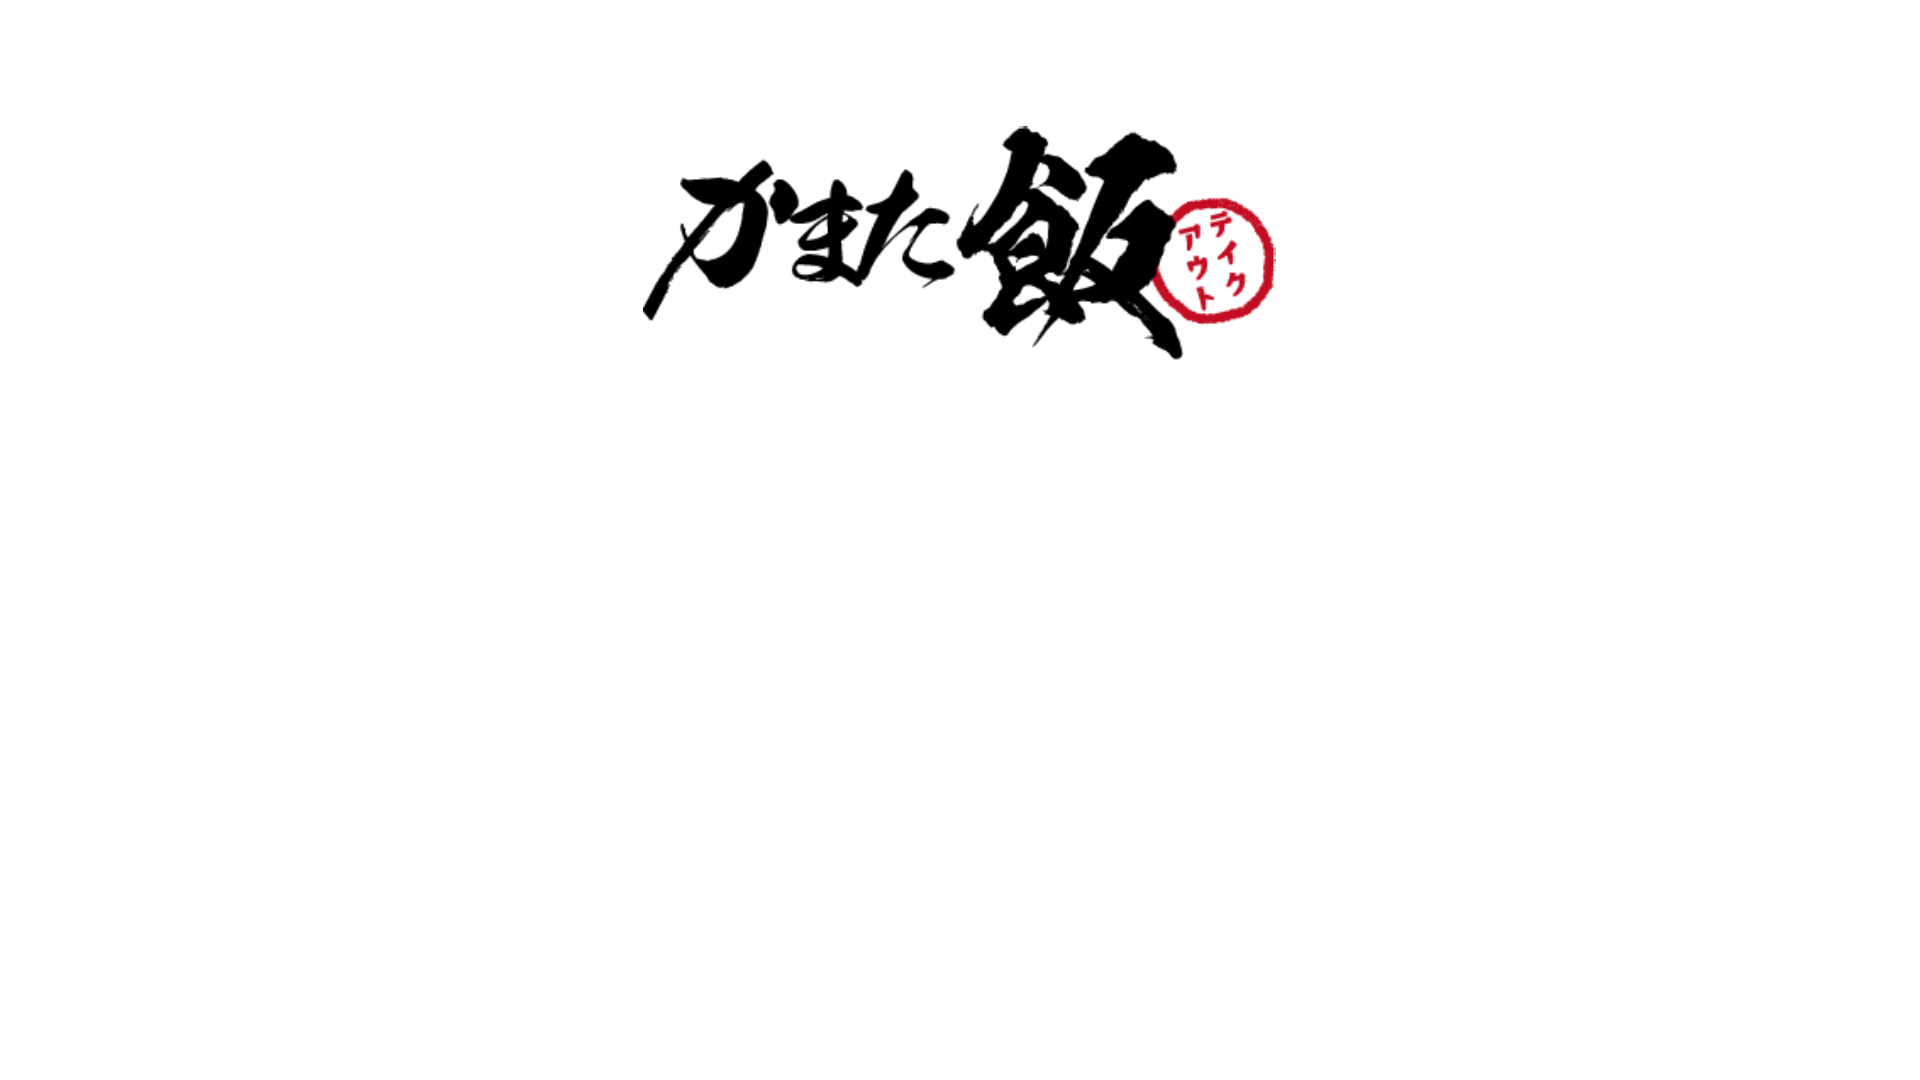
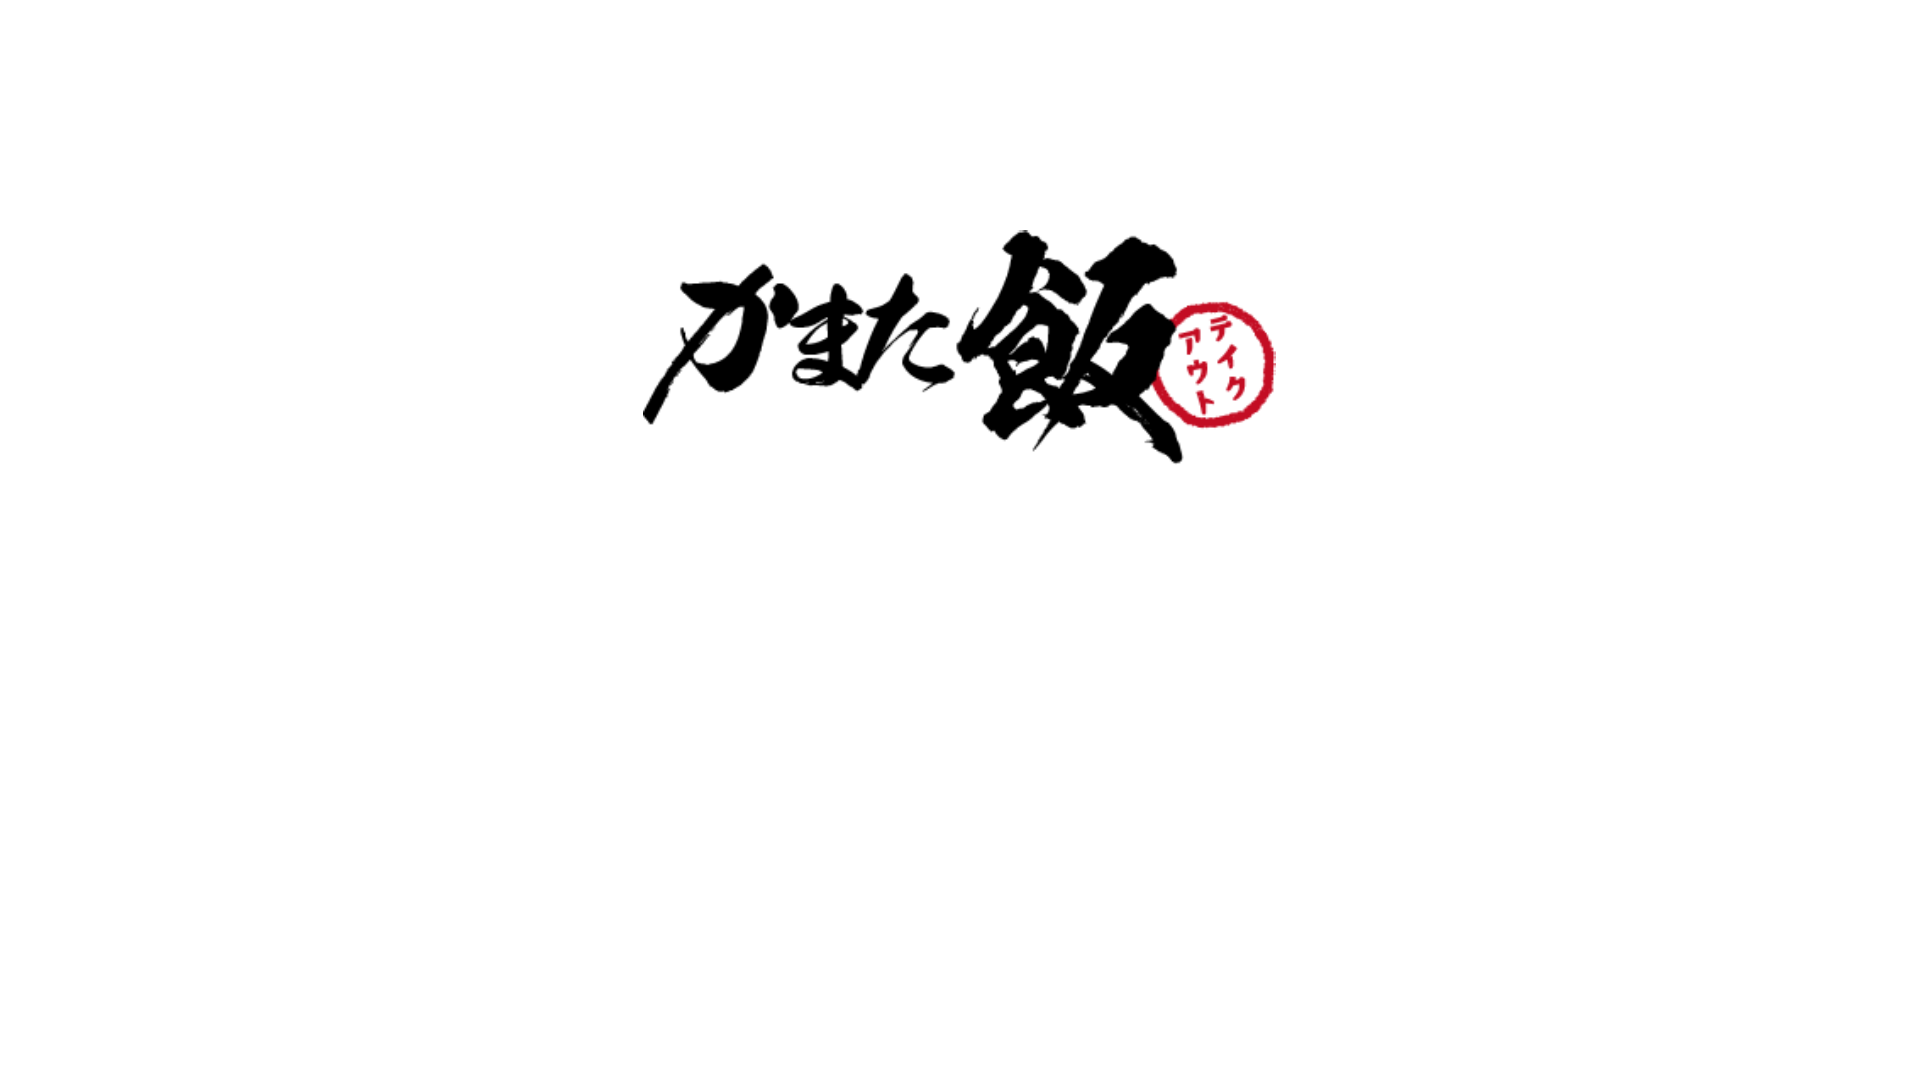
2020.08.03

Changed region(s): [[0.3125, 0.1222, 0.6875, 0.4278], [0.3125, 0.3667, 0.3438, 0.3972]]

diff --git a/index.html b/index.html
@@ -31,7 +31,7 @@
         <div class="row justify-content-md-center">
             <div class="mbr-black col-md-10">
                 <h3 class="mbr-section-subtitle align-center mbr-light pb-3 mbr-fonts-style display-2">
-                    <br/><br/><br/><br/><br/>蒲田の飲食店をテイクアウトで応援プロジェクト
+                    蒲田の飲食店をテイクアウトで応援プロジェクト
                 </h3>
                 <p class="mbr-text align-center pb-3 mbr-fonts-style display-5">
                     コロナ第二波に負けるな！こんな時こそ、蒲田の名店メニューをお得に食す。コロナ明けたら皆で食べに行く。
@@ -98,18 +98,17 @@
                     </div>
                     <div class="card-box">
                         <h4 class="card-title mbr-fonts-style display-5">ゆづる羽</h4>
-                        <span class="badge badge-warning">受取10分</span> <span class="badge badge-warning">西口徒歩1分</span> <span class="badge badge-warning">終日受付</span> <span class="badge badge-warning">定休無し</span>
+                        <span class="badge badge-warning">受取10分</span> <span class="badge badge-warning">西口徒歩2分</span> <span class="badge badge-warning">終日受付</span> <span class="badge badge-warning">定休無し</span>
                         <p class="mbr-text mbr-fonts-style display-7">
-                            弘城（ひろき）のお弁当はとにかくボリューミー！ランチだけでなく仕事帰りに持ち帰っても良し。メニューも豊富なので本格台湾をコンプリートしたくなります。
-                            今回は人気No.1の魯肉飯（ルーローハン）をピックアップしました！
+                          ゆづる羽は淡路島直送の野菜、肉料理に美味しいおつまみなどこだわりメニューが魅力！今回はファン続出の生姜たまねぎソースを使った生姜焼き弁当が30％オフで食べられます！
                         </p><br/>
-                        <row><col><span class="badge badge-secondary">注文時間</span></col><col>　11:00～22:00</col></row><br/>
-                        <row><col><span class="badge badge-secondary">定 休 日</span></col><col>　 無し</col></row><br/>
-                        <row><col><span class="badge badge-secondary">住　　所</span></col><col><a href="https://goo.gl/maps/oZwfk46ymYbXrMQs8" target="_blank">　東京都大田区西蒲田7-3-7　4階</a></col></row><br/>
-                        <row><col><span class="badge badge-secondary">電話番号</span></col><col><a href="tel:03-3735-5101">　03-3735-5101</a></col></row><br/>
+                        <row><col><span class="badge badge-secondary">注文時間</span></col><col>　11:30～21:30</col></row><br/>
+                        <row><col><span class="badge badge-secondary">定 休 日</span></col><col>　日</col></row><br/>
+                        <row><col><span class="badge badge-secondary">住　　所</span></col><col><a href="https://www.google.com/maps/place/%E3%82%86%E3%81%A5%E3%82%8B%E7%BE%BD/@35.5632213,139.7149329,15z/data=!4m2!3m1!1s0x0:0x9c1d9e4eb36f4f7e?sa=X&ved=2ahUKEwjDmYnjwv7qAhWXF4gKHbHfA3cQ_BIwE3oECBMQCA" target="_blank">　東京都大田区西蒲田7-29-3 第三久保井ビル3F</a></col></row><br/>
+                        <row><col><span class="badge badge-secondary">電話番号</span></col><col><a href="tel:03-6424-5448">　03-6424-5448</a></col></row><br/>
                         <!--Btn-->
                         <div class="mbr-section-btn align-center">
-                        <button type="button" class="btn btn-primary display-4 " data-toggle="collapse" data-target="#collapseExample" aria-expanded="false" aria-controls="collapseExample">注文する</button>
+                        <a href="https://app.putmenu.com/sf2aGygu5iJPnwXj6"><button type="button" class="btn btn-primary display-4 " data-toggle="collapse" data-target="#collapseExample" aria-expanded="false" aria-controls="collapseExample">注文する</button></a>
                       </div>
                     </div>
                 </div>
@@ -127,13 +126,13 @@
                             弘城（ひろき）のお弁当はボリューミー！ランチでも仕事帰りに持ち帰っても良し。今回は人気No.1の魯肉飯（ルーローハン）をピックアップしました！
                             本格台湾メニューも豊富！
                         </p><br/>
-                        <row><col><span class="badge badge-secondary">注文時間</span></col><col>　11:00～22:00</col></row><br/>
+                        <row><col><span class="badge badge-secondary">注文時間</span></col><col>　11:00～22:30</col></row><br/>
                         <row><col><span class="badge badge-secondary">定 休 日</span></col><col>　 無し</col></row><br/>
-                        <row><col><span class="badge badge-secondary">住　　所</span></col><col><a href="https://goo.gl/maps/oZwfk46ymYbXrMQs8" target="_blank">　東京都大田区西蒲田7-3-7　4階</a></col></row><br/>
+                        <row><col><span class="badge badge-secondary">住　　所</span></col><col><a href="https://www.google.com/maps/place/%E5%8F%B0%E6%B9%BE%E8%8F%9C%E9%A4%A8+%E5%BC%98%E5%9F%8E+%E8%92%B2%E7%94%B0%E5%BA%97/@35.563365,139.715584,15z/data=!4m2!3m1!1s0x0:0xcf564df6c468888e?sa=X&ved=2ahUKEwjVq-Luw_7qAhVOZt4KHbScCp4Q_BIwCnoECBcQCA" target="_blank">　東京都大田区西蒲田7-3-7 弘城ビル4F</a></col></row><br/>
                         <row><col><span class="badge badge-secondary">電話番号</span></col><col><a href="tel:03-3735-5101">　03-3735-5101</a></col></row><br/>
                         <!--Btn-->
                         <div class="mbr-section-btn align-center">
-                        <button type="button" class="btn btn-primary display-4 " data-toggle="collapse" data-target="#collapseExample" aria-expanded="false" aria-controls="collapseExample">注文する</button>
+                        <a href="https://app.putmenu.com/XqC1WGPRgcGE1Tsb9"><button type="button" class="btn btn-primary display-4 " data-toggle="collapse" data-target="#collapseExample" aria-expanded="false" aria-controls="collapseExample">注文する</button></a>
                       </div>
                     </div>
                 </div>
@@ -146,17 +145,17 @@
                     </div>
                     <div class="card-box">
                         <h4 class="card-title mbr-fonts-style display-5">高知直送食材 どればー高知</h4>
-                        <span class="badge badge-warning">受取10分</span> <span class="badge badge-warning">東口徒歩3分</span> <span class="badge badge-warning">終日受付</span> <span class="badge badge-warning">日･月定休</span>
+                        <span class="badge badge-warning">受取15分</span> <span class="badge badge-warning">東口徒歩3分</span> <span class="badge badge-warning">終日受付</span> <span class="badge badge-warning">日･月定休</span>
                         <p class="mbr-text mbr-fonts-style display-7">
                             高知から直送された食材がウリのどればー高知！高知直送の鰹の藁焼きと釜揚げしらすの2色丼はテイクアウトの人気メニュー！<br>お得に海鮮丼が食べられて大満足の逸品！
                         </p><br/>
-                        <row><col><span class="badge badge-secondary">注文時間</span></col><col>　11:45～22:00</col></row><br/>
-                        <row><col><span class="badge badge-secondary">定 休 日</span></col><col>　 月・日定休日</col></row><br/>
-                        <row><col><span class="badge badge-secondary">住　　所</span></col><col><a href="https://www.google.com/maps/place/%E9%AB%98%E7%9F%A5%E7%9B%B4%E9%80%81%E9%A3%9F%E6%9D%90%E3%81%A8%E5%9C%B0%E9%85%92+%E3%81%A9%E3%82%8C%E3%81%B0%E3%83%BC%E9%AB%98%E7%9F%A5+%E8%92%B2%E7%94%B0%E5%BA%97/@35.5647421,139.7168254,15z/data=!4m5!3m4!1s0x0:0xd9697b6c35fe1504!8m2!3d35.5633806!4d139.7182845" target="_blank">　東京都大田区蒲田５丁目９−４ エクセル蒲田 1F</a></col></row><br/>
+                        <row><col><span class="badge badge-secondary">注文時間</span></col><col>　11:45～21:30</col></row><br/>
+                        <row><col><span class="badge badge-secondary">定 休 日</span></col><col>　 日・月・祝</col></row><br/>
+                        <row><col><span class="badge badge-secondary">住　　所</span></col><col><a href="https://www.google.com/maps/place/%E9%AB%98%E7%9F%A5%E7%9B%B4%E9%80%81%E9%A3%9F%E6%9D%90%E3%81%A8%E5%9C%B0%E9%85%92+%E3%81%A9%E3%82%8C%E3%81%B0%E3%83%BC%E9%AB%98%E7%9F%A5+%E8%92%B2%E7%94%B0%E5%BA%97/@35.5647421,139.7168254,15z/data=!4m5!3m4!1s0x0:0xd9697b6c35fe1504!8m2!3d35.5633806!4d139.7182845" target="_blank">　東京都大田区蒲田5-9-4 エクセル蒲田 1F</a></col></row><br/>
                         <row><col><span class="badge badge-secondary">電話番号</span></col><col><a href="tel:03-6428-7351">　03-6428-7351</a></col></row><br/>
                         <!--Btn-->
                         <div class="mbr-section-btn align-center">
-                        <button type="button" class="btn btn-primary display-4 " data-toggle="collapse" data-target="#collapseExample" aria-expanded="false" aria-controls="collapseExample">注文する</button>
+                        <a href="https://app.putmenu.com/YTuGyBQBQtNb8CsA9"><button type="button" class="btn btn-primary display-4 " data-toggle="collapse" data-target="#collapseExample" aria-expanded="false" aria-controls="collapseExample">注文する</button></a>
                       </div>
                     </div>
                 </div>
@@ -169,18 +168,18 @@
                     </div>
                     <div class="card-box">
                         <h4 class="card-title mbr-fonts-style display-5">魚･食･笑 ちょうど</h4>
-                        <span class="badge badge-warning">受取20分</span> <span class="badge badge-warning">西口徒歩3分</span> <span class="badge badge-warning">終日受付</span> <span class="badge badge-warning">土･日定休</span>
+                        <span class="badge badge-warning">受取15分</span> <span class="badge badge-warning">西口徒歩3分</span> <span class="badge badge-warning">終日受付</span> <span class="badge badge-warning">土･日定休</span>
                         <p class="mbr-text mbr-fonts-style display-7">
-                            弘城（ひろき）のお弁当はとにかくボリューミー！ランチだけでなく仕事帰りに持ち帰っても良し。メニューも豊富なので本格台湾をコンプリートしたくなります。
-                            今回は人気No.1の魯肉飯（ルーローハン）をピックアップしました！
+                          鮮度抜群の新鮮な魚と、旬の日本酒と厳選の焼酎をお楽しみいただける和モダン魚居酒屋。<br>
+                          今回は数ある持ち帰りメニューの中からやみつき必至のイワシの蒲焼弁当をチョイス！甘辛で香ばしく食欲をそそります。
                         </p><br/>
-                        <row><col><span class="badge badge-secondary">注文時間</span></col><col>　11:45～22:00</col></row><br/>
+                        <row><col><span class="badge badge-secondary">注文時間</span></col><col>　11:45～21:30</col></row><br/>
                         <row><col><span class="badge badge-secondary">定 休 日</span></col><col>　土日祝日</col></row><br/>
                         <row><col><span class="badge badge-secondary">住　　所</span></col><col><a href="https://www.google.com/maps/place/%E3%81%A1%E3%82%87%E3%81%86%E3%81%A9+%E8%92%B2%E7%94%B0%E5%BA%97/@35.5633433,139.71141,17z/data=!3m2!4b1!5s0x6018605d257fd033:0xe8a8bd32c7875d42!4m5!3m4!1s0x6018605d2f85c819:0xb516900f39963852!8m2!3d35.563339!4d139.713604" target="_blank">　東京都大田区西蒲田7-35-1 第六醍醐ビル5F</a></col></row><br/>
                         <row><col><span class="badge badge-secondary">電話番号</span></col><col><a href="tel:03-5703-7351">　03-5703-7351</a></col></row><br/>
                         <!--Btn-->
                         <div class="mbr-section-btn align-center">
-                        <button type="button" class="btn btn-primary display-4 " data-toggle="collapse" data-target="#collapseExample" aria-expanded="false" aria-controls="collapseExample">注文する</button>
+                        <a href="https://app.putmenu.com/ZjzSwpWXmxJZPMJn7"><button type="button" class="btn btn-primary display-4 " data-toggle="collapse" data-target="#collapseExample" aria-expanded="false" aria-controls="collapseExample">注文する</button></a>
                       </div>
                     </div>
                 </div>
@@ -192,19 +191,19 @@
                         <img src="assets/images/6.jpg" alt="Mobirise" title="">
                     </div>
                     <div class="card-box">
-                        <h4 class="card-title mbr-fonts-style display-5">台湾菜館 弘城</h4>
-                        <span class="badge badge-warning">受取10分</span> <span class="badge badge-warning">西口徒歩1分</span> <span class="badge badge-warning">終日受付</span> <span class="badge badge-warning">定休無し</span>
+                        <h4 class="card-title mbr-fonts-style display-5">ビストロカマラード</h4>
+                        <span class="badge badge-warning">受取10分</span> <span class="badge badge-warning">東口徒歩3分</span> <span class="badge badge-warning">終日受付</span> <span class="badge badge-warning">日曜定休</span>
                         <p class="mbr-text mbr-fonts-style display-7">
-                            弘城（ひろき）のお弁当はとにかくボリューミー！ランチだけでなく仕事帰りに持ち帰っても良し。メニューも豊富なので本格台湾をコンプリートしたくなります。
-                            今回は人気No.1の魯肉飯（ルーローハン）をピックアップしました！
+                          店主自ら厳選した世界各国のワインと蒲田では珍しい“溶岩焼き”が食べられるビストロカマラード♪<br>
+                          香り高い数10種のスパイスと野菜と肉の旨みの溶け込んだオリジナルルウの欧風ポークカレーはシェフこだわりの逸品です。
                         </p><br/>
-                        <row><col><span class="badge badge-secondary">注文時間</span></col><col>　11:00～22:00</col></row><br/>
-                        <row><col><span class="badge badge-secondary">定 休 日</span></col><col>　 無し</col></row><br/>
-                        <row><col><span class="badge badge-secondary">住　　所</span></col><col><a href="https://goo.gl/maps/oZwfk46ymYbXrMQs8" target="_blank">　東京都大田区西蒲田7-3-7　4階</a></col></row><br/>
-                        <row><col><span class="badge badge-secondary">電話番号</span></col><col><a href="tel:03-3735-5101">　03-3735-5101</a></col></row><br/>
+                        <row><col><span class="badge badge-secondary">注文時間</span></col><col>　11:30～21:00</col></row><br/>
+                        <row><col><span class="badge badge-secondary">定 休 日 </span></col><col>　 日</col></row><br/>
+                        <row><col><span class="badge badge-secondary">住　　所</span></col><col><a href="https://www.google.com/maps/place/%E3%83%93%E3%82%B9%E3%83%88%E3%83%AD+%E3%82%AB%E3%83%9E%E3%83%A9%E3%83%BC%E3%83%89+(Bistro+Camarade)/@35.560493,139.717346,15z/data=!4m2!3m1!1s0x0:0x6b370e4ebbd443d7?sa=X&ved=2ahUKEwjs_YXFxf7qAhWSdd4KHR3XDJkQ_BIwCnoECBYQCA" target="_blank">　東京都大田区蒲田5-43-6</a></col></row><br/>
+                        <row><col><span class="badge badge-secondary">電話番号</span></col><col><a href="tel:03-6715-8666">　03-6715-8666</a></col></row><br/>
                         <!--Btn-->
                         <div class="mbr-section-btn align-center">
-                        <button type="button" class="btn btn-primary display-4 " data-toggle="collapse" data-target="#collapseExample" aria-expanded="false" aria-controls="collapseExample">注文する</button>
+                        <a href="https://app.putmenu.com/H4nkutKgCBsCHLbu6"><button type="button" class="btn btn-primary display-4 " data-toggle="collapse" data-target="#collapseExample" aria-expanded="false" aria-controls="collapseExample">注文する</button></a>
                       </div>
                     </div>
                 </div>

diff --git a/assets/mobirise/css/mbr-additional.css b/assets/mobirise/css/mbr-additional.css
@@ -521,8 +521,8 @@ a.text-black:focus {
 }
 a,
 a:hover {
-  color: #232323;
-  text-decoration: underline;
+  color: #A05E24;
+  text-decoration: none;
 }
 .mbr-plan-header.bg-primary .mbr-plan-subtitle,
 .mbr-plan-header.bg-primary .mbr-plan-price-desc {
@@ -714,7 +714,7 @@ section.lazy-placeholder:after {
   opacity: 0.3;
 }
 .cid-s6ndWYVaPA {
-  padding-top: 90px;
+  padding-top: 300px;
   padding-bottom: 0px;
   background-image: url("../../../assets/images/background4.png");
 }
